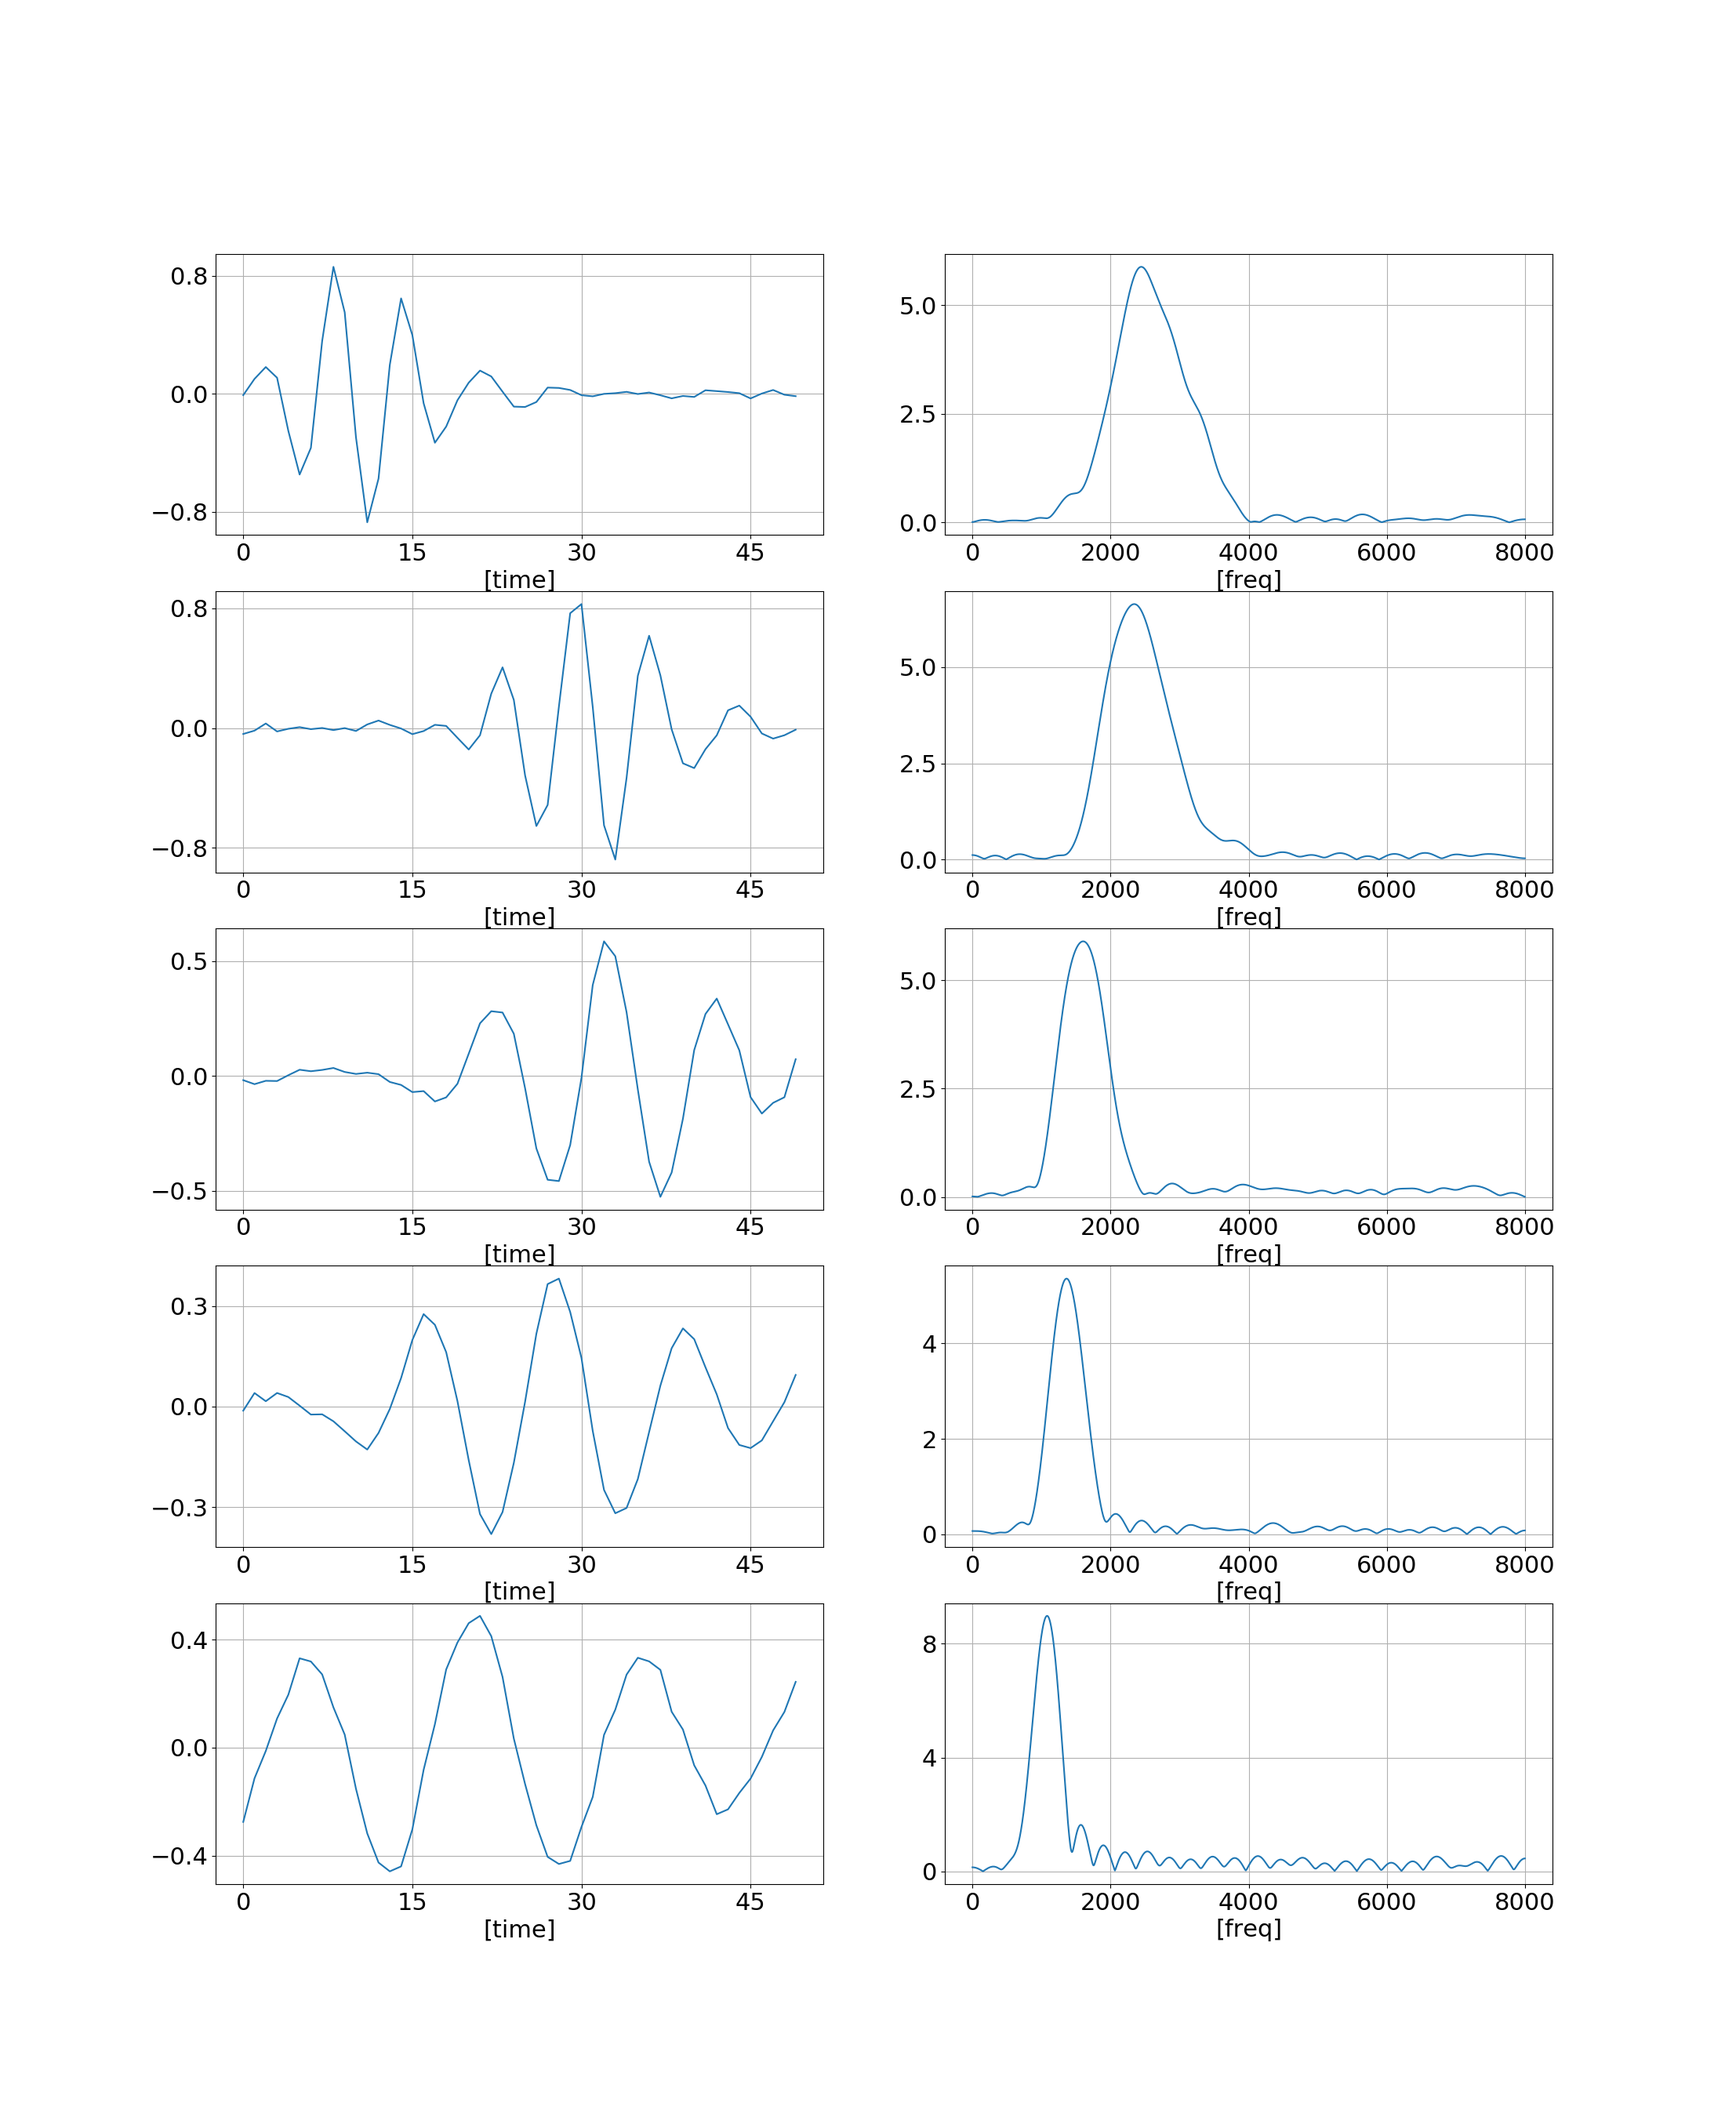
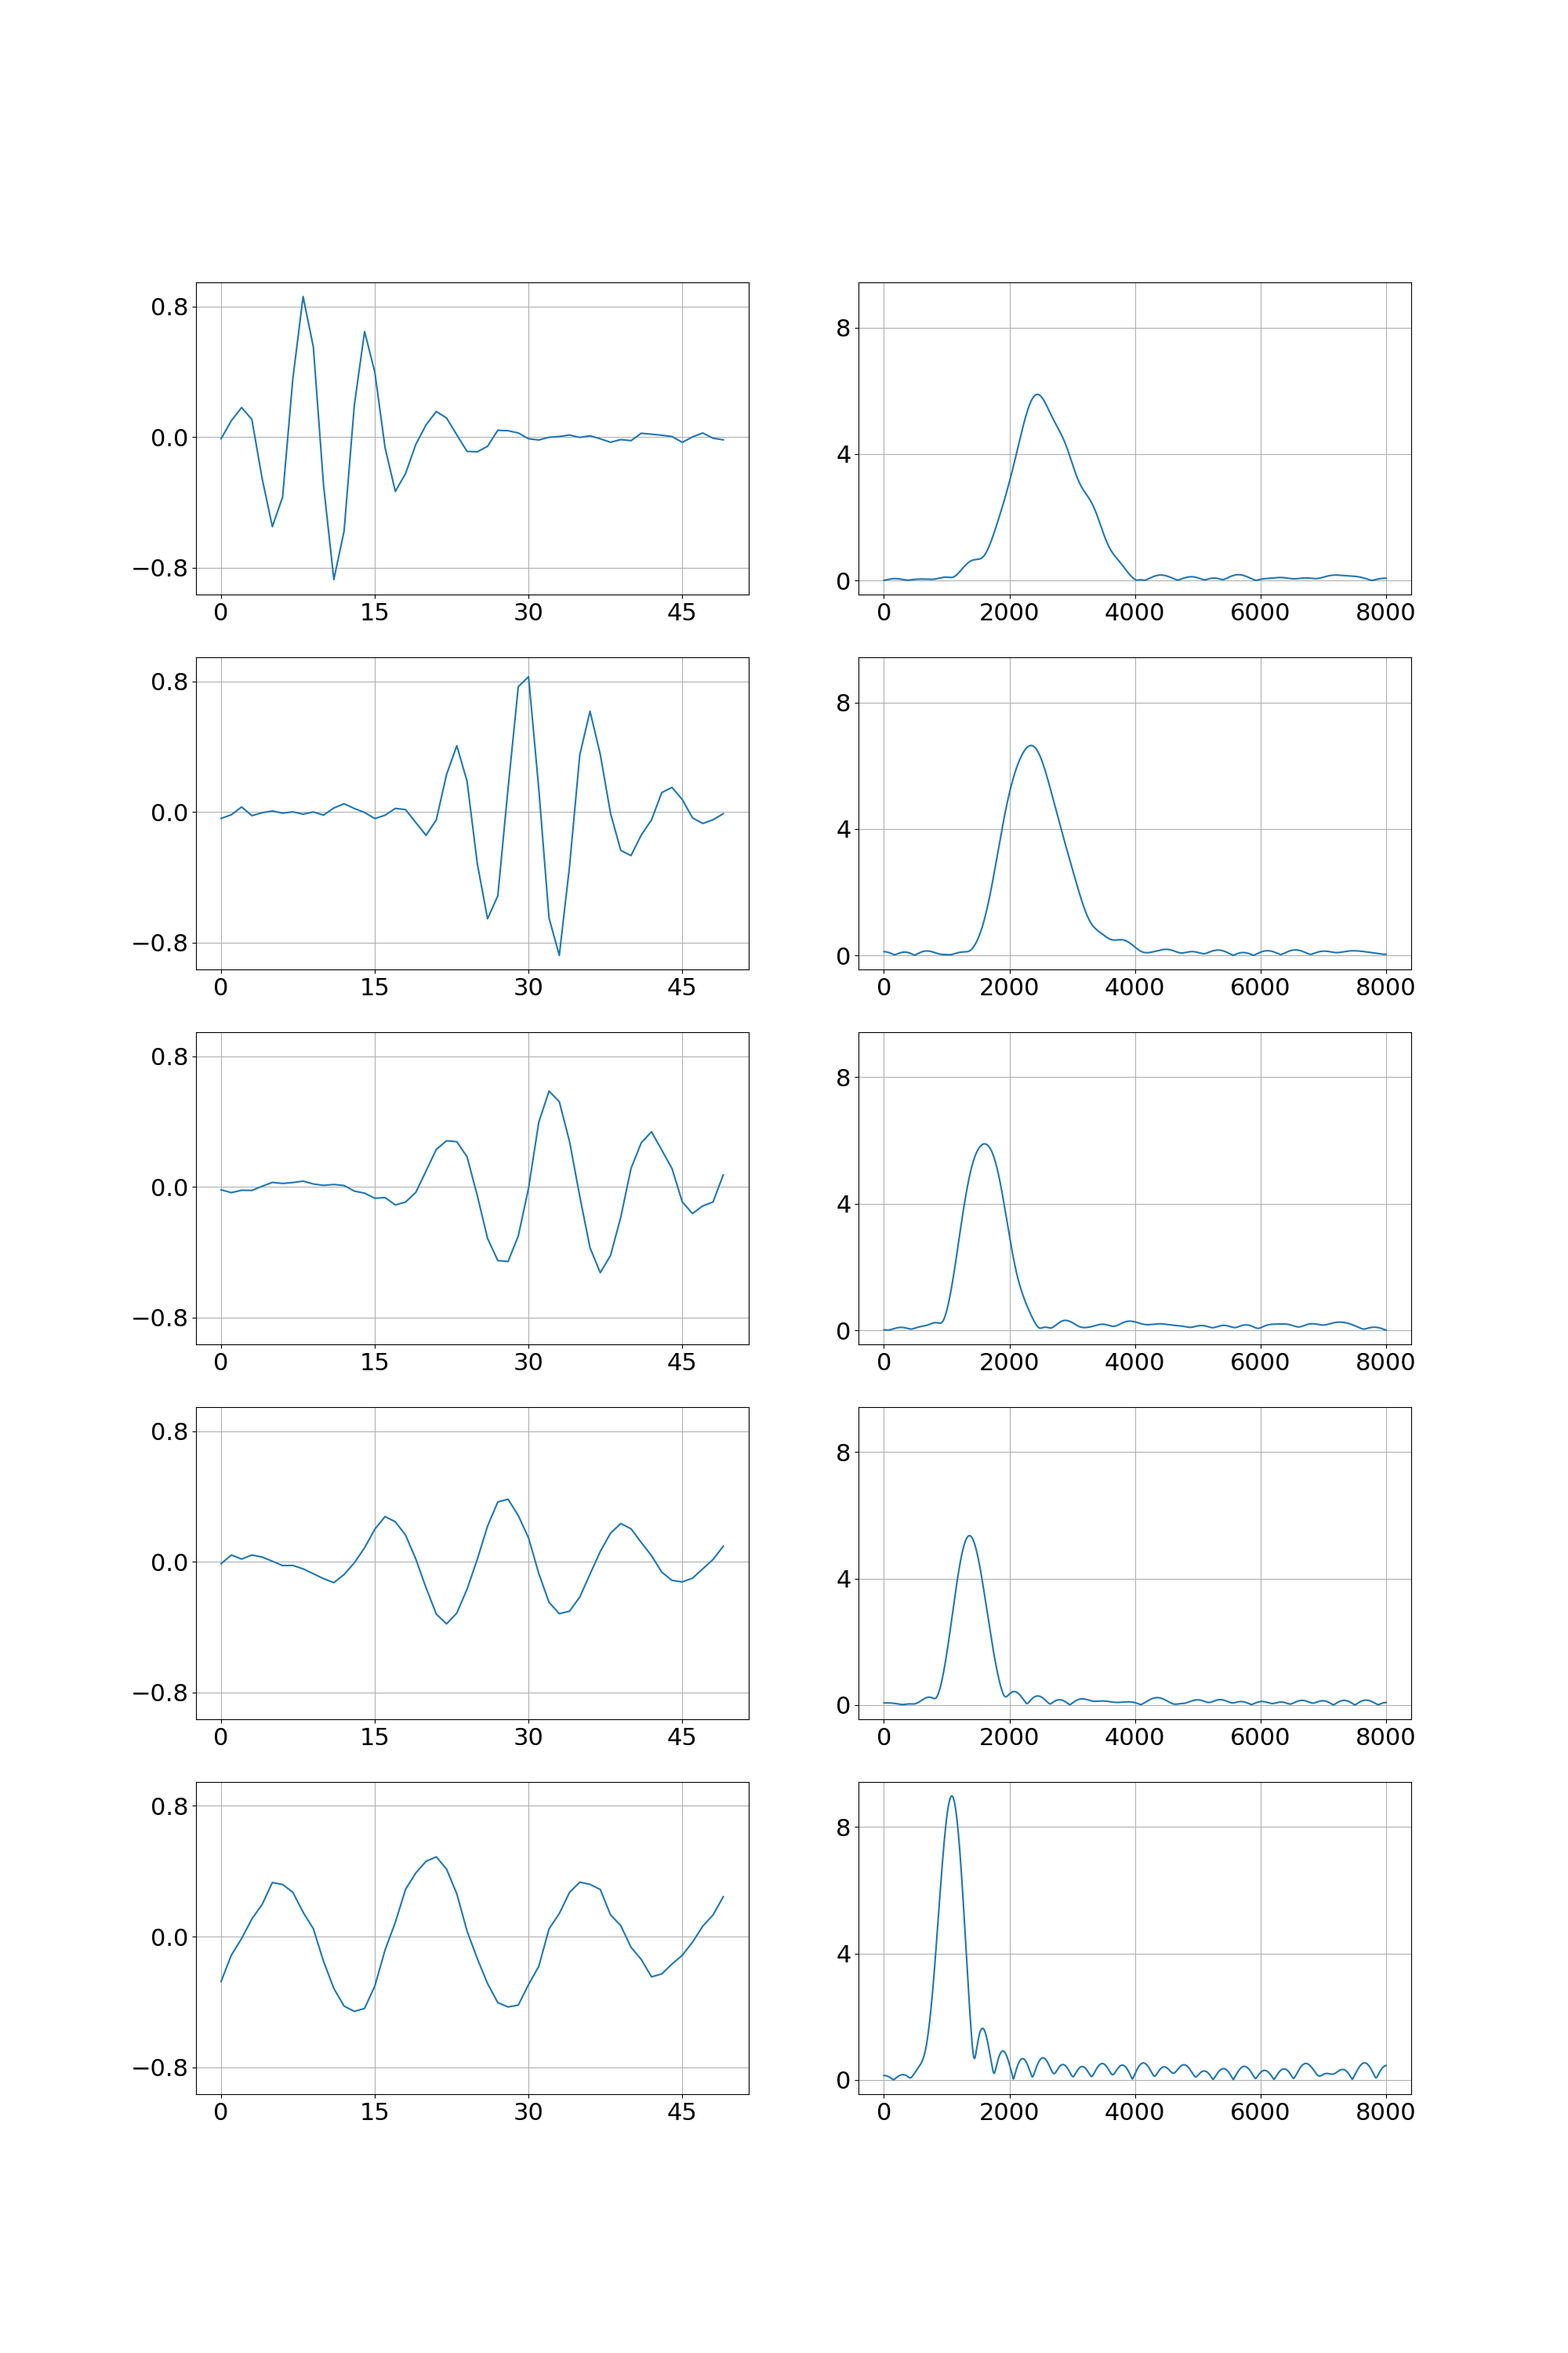
up

diff --git a/returnnTfNetworkLayerPlotter.py b/returnnTfNetworkLayerPlotter.py
@@ -430,14 +430,14 @@ class Plotter(object):
                 self.layer.setDomain(domain)
                 plotableWeight, timeArray = self.layer.getSinglePlotable1DWeightLastEpoch(kernelNum)
                 if(kernelIdx > 0):
-#                    axs[kernelIdx][domainIdx] = fig.add_subplot(numKernels,lenDomainsToPlot,lenDomainsToPlot*kernelIdx + 1 + domainIdx, sharey=axs[0][domainIdx])
-                    axs[kernelIdx][domainIdx] = fig.add_subplot(numKernels,lenDomainsToPlot,lenDomainsToPlot*kernelIdx + 1 + domainIdx)
+                    axs[kernelIdx][domainIdx] = fig.add_subplot(numKernels,lenDomainsToPlot,lenDomainsToPlot*kernelIdx + 1 + domainIdx, sharey=axs[0][domainIdx])
+#                    axs[kernelIdx][domainIdx] = fig.add_subplot(numKernels,lenDomainsToPlot,lenDomainsToPlot*kernelIdx + 1 + domainIdx)
                 else:
                     axs[kernelIdx][domainIdx] = fig.add_subplot(numKernels,lenDomainsToPlot,lenDomainsToPlot*kernelIdx + 1 + domainIdx)
                 axs[kernelIdx][domainIdx].plot(timeArray, plotableWeight)
                 axs[kernelIdx][domainIdx].yaxis.set_major_locator(plt.MaxNLocator(3))
                 axs[kernelIdx][domainIdx].xaxis.set_major_locator(plt.MaxNLocator(5))
-                axs[kernelIdx][domainIdx].set(xlabel='[' + self.layer.domain + ']')
+#                axs[kernelIdx][domainIdx].set(xlabel='[' + self.layer.domain + ']')
 #                if(kernelIdx == numKernels - 1):
 #                else:
 #                    axs[kernelIdx][domainIdx].set_xticks([])
